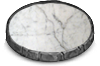
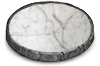
updated bases for troupe, beasthunter and crusader
just tweaks to Luft's designs

diff --git a/ReleaseNotes.md b/ReleaseNotes.md
@@ -6732,11 +6732,18 @@ Experimental: High tier ghouls (capable of swallowing bros) have been increased 
 
 ## UPCOMING
 
+**Kobolds**
+80 new sounds added 
+go invisible at the end of every turn 
+blowgun can stun and daze 
+
 **Fixes**
+- Scenario mode now works
 - Fixed being able to equip layer items
 - Fixed more infinite consumables
 - Fixed web skill showing damage values in the tooltip
-- 
+- Updated bases for troupe, beasthunters and crusader
+
 **For Modders**
 - Background parameters such as IsLowborn are now automatically transformed into the BackgroundType system, via convertToBackgroundType() running during a create hook
 - onUpdateDraftsList now has Gender as an optional parameter
